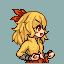
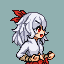
Redo back imgs of gen3 starters

diff --git a/src/data/pokemon_graphics/back_pic_coordinates.h b/src/data/pokemon_graphics/back_pic_coordinates.h
@@ -1263,27 +1263,27 @@ const struct MonCoords gMonBackPicCoords[] =
     [SPECIES_TREECKO] =
     {
         .size = 0x87, //76
-        .y_offset = 8,
+        .y_offset = 0, //8
     },
     [SPECIES_GROVYLE] =
     {
         .size = 0x87,
-        .y_offset = 7,
+        .y_offset = 0, //7
     },
     [SPECIES_SCEPTILE] =
     {
         .size = 0x88,
-        .y_offset = 6,
+        .y_offset = 0, //6
     },
     [SPECIES_TORCHIC] =
     {
         .size = 0x56,
-        .y_offset = 10,
+        .y_offset = 0, //10
     },
     [SPECIES_COMBUSKEN] =
     {
         .size = 0x88,
-        .y_offset = 1,
+        .y_offset = 0, //1
     },
     [SPECIES_BLAZIKEN] =
     {
